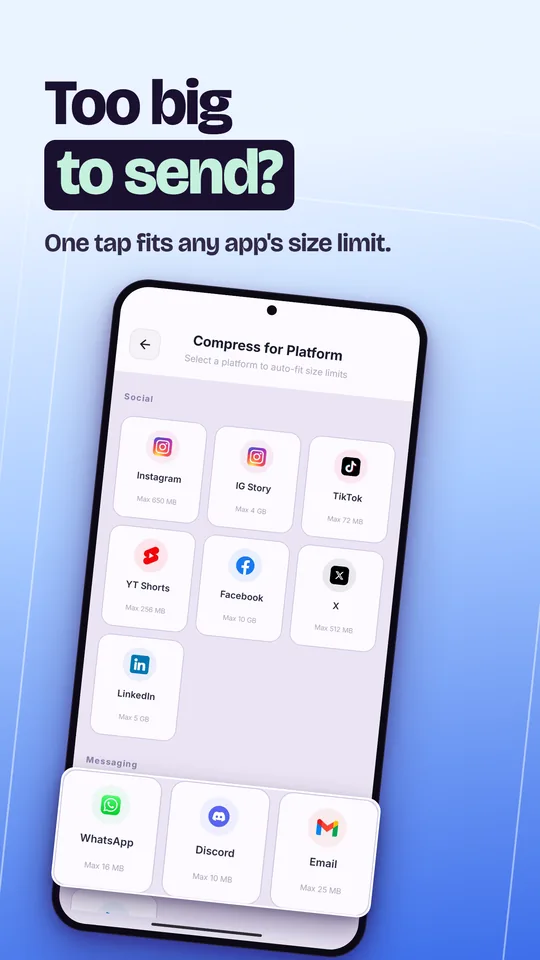
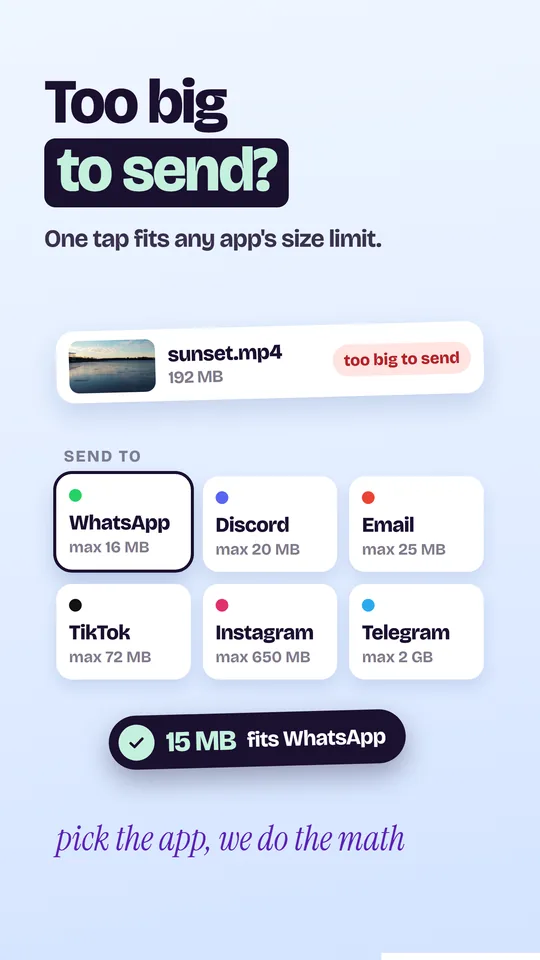
CompressYourVideo: new store screenshots; fix nav scroll error on sub-pages

diff --git a/apps/compressyourvideo/index.html b/apps/compressyourvideo/index.html
@@ -67,7 +67,7 @@
         <div class="phone-stack" aria-hidden="true">
           <img src="/apps/compressyourvideo/img/01.webp" alt="" width="540" height="960" />
           <img src="/apps/compressyourvideo/img/02.webp" alt="" width="540" height="960" />
-          <img src="/apps/compressyourvideo/img/04.webp" alt="" width="540" height="960" />
+          <img src="/apps/compressyourvideo/img/06.webp" alt="" width="540" height="960" />
         </div>
       </section>
 
@@ -80,14 +80,14 @@
 
       <section class="shots" aria-label="Android app screenshots">
         <div class="shots__track">
-          <figure><img src="/apps/compressyourvideo/img/01.webp" alt="A 142 MB clip compressed to 3.6 MB, 97% smaller" width="540" height="960" loading="lazy" decoding="async" /><figcaption>Huge videos. Tiny files.</figcaption></figure>
-          <figure><img src="/apps/compressyourvideo/img/02.webp" alt="Platform presets for Instagram, TikTok, WhatsApp, Discord, Email and more" width="540" height="960" loading="lazy" decoding="async" /><figcaption>One tap fits any app</figcaption></figure>
-          <figure><img src="/apps/compressyourvideo/img/03.webp" alt="Home screen with total space saved and Quick Compress" width="540" height="960" loading="lazy" decoding="async" /><figcaption>Your videos stay yours</figcaption></figure>
-          <figure><img src="/apps/compressyourvideo/img/04.webp" alt="Choosing an exact target size: 191 MB in, 53 MB out" width="540" height="960" loading="lazy" decoding="async" /><figcaption>Pick a size. Get that size.</figcaption></figure>
-          <figure><img src="/apps/compressyourvideo/img/05.webp" alt="Smart Scan found 797 MB of large videos to free up" width="540" height="960" loading="lazy" decoding="async" /><figcaption>Storage full again?</figcaption></figure>
-          <figure><img src="/apps/compressyourvideo/img/06.webp" alt="Batch compress: 8 videos from 950 MB down to about 79 MB" width="540" height="960" loading="lazy" decoding="async" /><figcaption>One tap. Every video.</figcaption></figure>
-          <figure><img src="/apps/compressyourvideo/img/07.webp" alt="Compare original and compressed video side by side" width="540" height="960" loading="lazy" decoding="async" /><figcaption>See it side by side</figcaption></figure>
-          <figure><img src="/apps/compressyourvideo/img/08.webp" alt="Video tools: trim, resize, convert, GIF, extract audio, speed" width="540" height="960" loading="lazy" decoding="async" /><figcaption>More than a compressor</figcaption></figure>
+          <figure><img src="/apps/compressyourvideo/img/01.webp" alt="A 142 MB desert drive clip compressed to 3.6 MB, 97% lighter" width="540" height="960" loading="lazy" decoding="async" /><figcaption>Huge videos. Tiny files.</figcaption></figure>
+          <figure><img src="/apps/compressyourvideo/img/02.webp" alt="Picking WhatsApp, Discord, Email, TikTok, Instagram or Telegram: a 192 MB clip comes out at 15 MB to fit WhatsApp" width="540" height="960" loading="lazy" decoding="async" /><figcaption>Too big to send?</figcaption></figure>
+          <figure><img src="/apps/compressyourvideo/img/03.webp" alt="Airplane mode on and Wi-Fi off, with three videos compressed on the phone" width="540" height="960" loading="lazy" decoding="async" /><figcaption>Your videos stay yours</figcaption></figure>
+          <figure><img src="/apps/compressyourvideo/img/04.webp" alt="Home screen showing 138 MB saved, 16 large videos found and Quick Compress" width="540" height="960" loading="lazy" decoding="async" /><figcaption>Your storage, at a glance</figcaption></figure>
+          <figure><img src="/apps/compressyourvideo/img/05.webp" alt="Trimming a 4K video, with the estimate going from 192 MB to about 32 MB" width="540" height="960" loading="lazy" decoding="async" /><figcaption>Trim it. Shrink it.</figcaption></figure>
+          <figure><img src="/apps/compressyourvideo/img/06.webp" alt="Choosing an exact 53 MB target for a 191 MB video, 71% smaller" width="540" height="960" loading="lazy" decoding="async" /><figcaption>Pick a size. Get that size.</figcaption></figure>
+          <figure><img src="/apps/compressyourvideo/img/07.webp" alt="Smart Scan found 16 large videos with 797 MB to free up" width="540" height="960" loading="lazy" decoding="async" /><figcaption>Storage full again?</figcaption></figure>
+          <figure><img src="/apps/compressyourvideo/img/08.webp" alt="Batch compressing 8 videos from 950 MB down to about 79 MB" width="540" height="960" loading="lazy" decoding="async" /><figcaption>One tap. Every video.</figcaption></figure>
         </div>
       </section>
 

diff --git a/assets/js/main.js b/assets/js/main.js
@@ -102,7 +102,8 @@
     lastY = y;
     let current = null;
     navLinks.forEach((a) => {
-      const s = $(a.getAttribute('href'));
+      const href = a.getAttribute('href');
+      const s = href && href.startsWith('#') ? $(href) : null; // links to other pages (e.g. "/#apps") aren't sections here
       if (s && s.getBoundingClientRect().top < window.innerHeight * 0.4) current = a;
     });
     navLinks.forEach((a) => a.classList.toggle('is-active', a === current));
